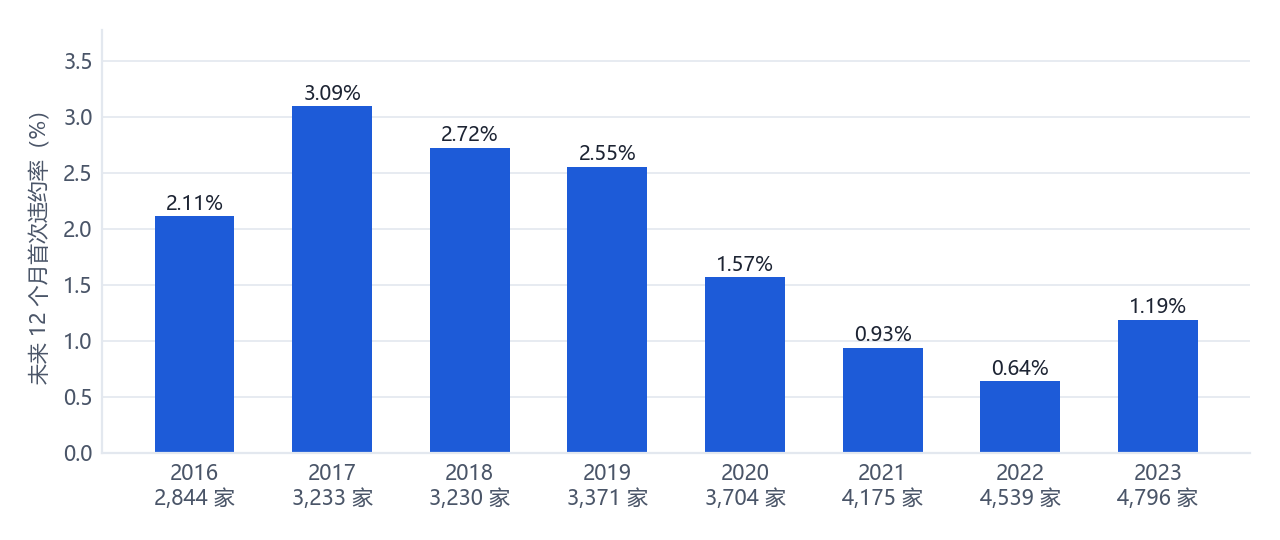
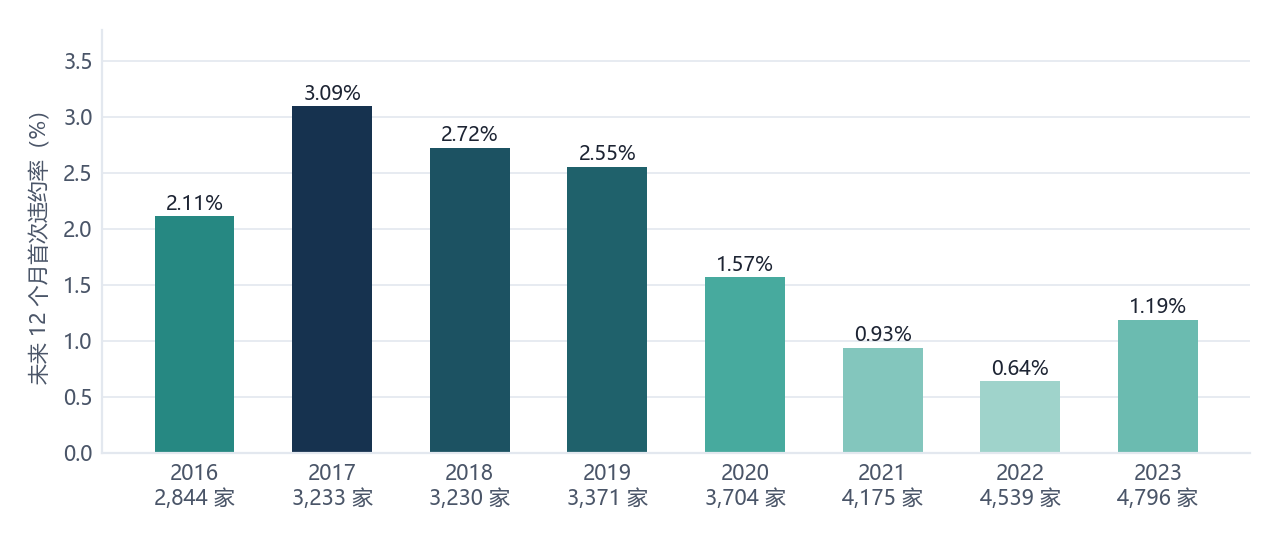
style(fig): 报告图表改用深蓝、青绿、金、珊瑚配色并按数值渐变

diff --git a/src/23b_attribution_fig.py b/src/23b_attribution_fig.py
@@ -15,7 +15,7 @@ n_all, n_hit = att["预警数"], att["命中数"]
 
 fig, axes = plt.subplots(1, 2, figsize=(7.4, 3.2), dpi=200, gridspec_kw={"width_ratios": [1, 1.15]})
 ax = axes[0]
-cols = {"自身财务": "#A9B4C4", "自身事件与治理": "#D5DCE6", "静态图谱结构": BRAND_2, "一跳关联事件时序": BRAND, "多层级时序": NAVY}
+cols = {"自身财务": "#C9CFD8", "自身事件与治理": "#E6E1D6", "静态图谱结构": "#8CC8BF", "一跳关联事件时序": JADE, "多层级时序": DEEP}
 cats = list(comp.columns)
 left = np.zeros(len(cats))
 for g in comp.index:
@@ -24,7 +24,7 @@ for g in comp.index:
     for i, (l_, w_) in enumerate(zip(left, v)):
         if w_ > 0.07:
             ax.text((l_ + w_ / 2) * 100, len(cats) - 1 - i, f"{w_ * 100:.0f}", ha="center", va="center", fontsize=6.5,
-                    color="white" if g in ("一跳关联事件时序", "多层级时序", "静态图谱结构") else INK)
+                    color="white" if g in ("一跳关联事件时序", "多层级时序") else INK)
     left = left + v
 ax.set_yticks(range(len(cats))[::-1])
 ax.set_yticklabels([f"{c}（{n}）" for c, n in zip(cats, [n_all, n_hit, n_all - n_hit])], fontsize=7)
@@ -38,7 +38,7 @@ ax = axes[1]
 ch = chan.iloc[::-1]
 y = np.arange(len(ch))
 base = n_hit / n_all
-cc = [COMPARE if c == "无关联触发" else BRAND for c in ch.渠道]
+cc = [SOFT if c == "无关联触发" else col for c, col in zip(ch.渠道, ramp(["#F3C677", GOLD, CORAL], ch["6个月违约率"]))]
 ax.barh(y, ch["6个月违约率"] * 100, color=cc, height=0.6, zorder=2)
 ax.hlines(y, ch.CI_lo * 100, ch.CI_hi * 100, color=INK2, lw=0.8, zorder=3)
 for yy, r in zip(y, ch.itertuples()):

diff --git a/src/09_describe.py b/src/09_describe.py
@@ -59,7 +59,7 @@ print(cmp.round(4).to_string())
 
 # 图 1：年度首次违约率（样本规模写在横轴标签里，不用双轴）
 fig, ax = plt.subplots(figsize=(6.4, 2.7), dpi=200)
-ax.bar(yr.t, yr.违约率 * 100, color=BRAND, width=0.58, zorder=2)
+ax.bar(yr.t, yr.违约率 * 100, color=ramp(["#9FD3CB", JADE, DEEP], yr.违约率), width=0.58, zorder=2)
 for x_, y_ in zip(yr.t, yr.违约率 * 100):
     ax.text(x_, y_ + 0.06, f"{y_:.2f}%", ha="center", fontsize=7.2, color=INK)
 ax.set_ylim(0, yr.违约率.max() * 100 * 1.22)
@@ -74,8 +74,8 @@ fig.savefig(FIG / "fig1_year.png")
 rel_s = rel.sort_values("提升倍数")
 fig, ax = plt.subplots(figsize=(6.4, 3.3), dpi=200)
 yy = np.arange(len(rel_s))
-ax.barh(yy + 0.19, rel_s.有风险邻居违约率 * 100, height=0.36, color=BRAND, label="存在出险的该类关联方", zorder=2)
-ax.barh(yy - 0.19, rel_s.无风险邻居违约率 * 100, height=0.36, color=COMPARE, label="不存在", zorder=2)
+ax.barh(yy + 0.19, rel_s.有风险邻居违约率 * 100, height=0.36, color=ramp(["#F3C677", GOLD, CORAL], rel_s.提升倍数), label="存在出险的该类关联方", zorder=2)
+ax.barh(yy - 0.19, rel_s.无风险邻居违约率 * 100, height=0.36, color=SOFT, label="不存在", zorder=2)
 for i, r_ in enumerate(rel_s.itertuples()):
     ax.text(r_.有风险邻居违约率 * 100 + 0.1, i + 0.19, f"×{r_.提升倍数:.1f}", va="center", fontsize=7, color=INK)
 ax.set_yticks(yy)

diff --git a/src/style.py b/src/style.py
@@ -1,4 +1,4 @@
-"""报告图表与网页共用的视觉规范：品牌蓝为主色，风险红只用于违约与出险，其余用灰阶。"""
+"""报告图表与网页共用的视觉规范：深蓝、钢蓝、青绿、金、珊瑚五色为主，按数值用渐变，不显著与对照用灰阶。"""
 import matplotlib
 
 matplotlib.use("Agg")
@@ -16,6 +16,18 @@ RISK = "#D92D20"      # 违约
 WARN = "#F79009"      # 出险 / 关注
 TEAL, ORANGE, VIOLET = "#0E9F8E", "#F28C28", "#6E56CF"   # 分类色（已过色盲与对比度校验）
 CATS = [BRAND, ORANGE, TEAL, VIOLET, "#C93C6E"]
+DEEP, STEEL, JADE, GOLD, CORAL = "#16324F", "#2F6DB5", "#2A9D8F", "#E9A23B", "#E4572E"
+SOFT = "#CDD3DC"
+
+
+def ramp(colors, v, lo=None, hi=None):
+    """按数值在给定色带上取色，用于单系列柱的渐变着色。"""
+    import numpy as np
+    from matplotlib.colors import LinearSegmentedColormap
+    v = np.asarray(v, float)
+    lo = v.min() if lo is None else lo
+    hi = v.max() if hi is None else hi
+    return LinearSegmentedColormap.from_list("r", colors)((v - lo) / max(hi - lo, 1e-9))
 
 
 def apply():
